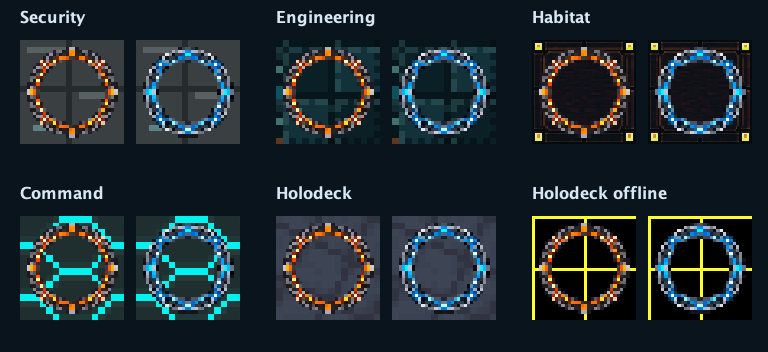
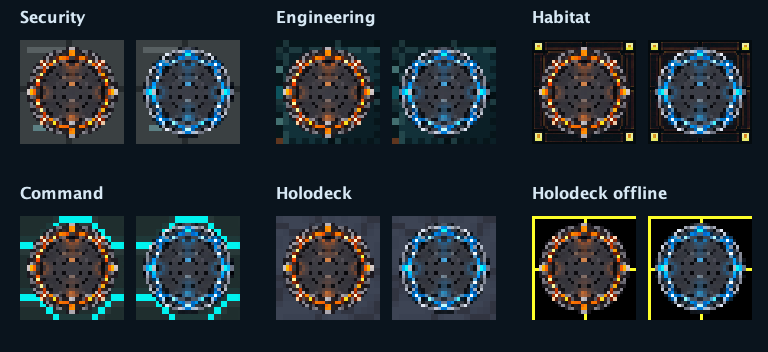
Fill teleport-pad centres and archive unused assets

diff --git a/scripts/InstallTeleportPadArtwork.java b/scripts/InstallTeleportPadArtwork.java
@@ -5,8 +5,9 @@ import java.awt.Graphics2D;
 import java.awt.RenderingHints;
 import java.awt.image.BufferedImage;
 import java.nio.file.Path;
+import java.util.ArrayDeque;
 
-/** Packs transparent circular overlays and previews them on the deck floor textures. */
+/** Fills the existing pad centres, packs the overlays and previews them on deck floors. */
 public class InstallTeleportPadArtwork {
     public static void main(String[] args) throws Exception {
         Path artwork = Path.of(args[0]);
@@ -14,8 +15,16 @@ public class InstallTeleportPadArtwork {
         BufferedImage strip = new BufferedImage(128, 64, BufferedImage.TYPE_INT_ARGB);
         BufferedImage[] icons = new BufferedImage[2];
         String[] names = {"orange", "blue"};
+        BufferedImage filledSource = ImageIO.read(artwork.resolve("filled-centres-source.png").toFile());
+        if (filledSource == null || filledSource.getWidth() % 2 != 0) {
+            throw new IllegalArgumentException("Expected two equal frames in the filled pad source");
+        }
+        int filledFrameWidth = filledSource.getWidth() / 2;
         for (int i = 0; i < names.length; i++) {
             icons[i] = fit(ImageIO.read(artwork.resolve(names[i] + "-source.png").toFile()));
+            BufferedImage filled = fit(filledSource.getSubimage(i * filledFrameWidth, 0,
+                    filledFrameWidth, filledSource.getHeight()));
+            fillCentre(icons[i], filled);
             for (int y = 0; y < 64; y++) {
                 for (int x = 0; x < 64; x++) strip.setRGB(i * 64 + x, y, icons[i].getRGB(x, y));
             }
@@ -48,6 +57,31 @@ public class InstallTeleportPadArtwork {
         }
         g.dispose();
         ImageIO.write(preview, "png", artwork.resolve("deck-preview.png").toFile());
+    }
+
+    /** Fill only the enclosed hole, preserving every existing rim and exterior pixel. */
+    private static void fillCentre(BufferedImage icon, BufferedImage filled) {
+        boolean[] seen = new boolean[64 * 64];
+        ArrayDeque<Integer> queue = new ArrayDeque<>();
+        queue.add(32 * 64 + 32);
+        while (!queue.isEmpty()) {
+            int cell = queue.removeFirst();
+            int x = cell % 64, y = cell / 64;
+            if (seen[cell] || (icon.getRGB(x, y) >>> 24) != 0) continue;
+            seen[cell] = true;
+            if (x == 0 || x == 63 || y == 0 || y == 63) {
+                throw new IllegalArgumentException("Pad centre is not enclosed by its rim");
+            }
+            int pixel = filled.getRGB(x, y);
+            if ((pixel >>> 24) < 128) {
+                throw new IllegalArgumentException("Filled pad source has a transparent centre");
+            }
+            icon.setRGB(x, y, pixel | 0xFF000000);
+            queue.add(cell - 1);
+            queue.add(cell + 1);
+            queue.add(cell - 64);
+            queue.add(cell + 64);
+        }
     }
 
     private static BufferedImage fit(BufferedImage source) {

diff --git a/core/src/main/java/com/wafitz/pixelspacebase/Assets.java b/core/src/main/java/com/wafitz/pixelspacebase/Assets.java
@@ -41,9 +41,6 @@ public class Assets {
     public static final String ICONS = "icons.png";
     public static final String STATUS = "status_pane.png";
     public static final String MENU = "menu_button.png";
-    public static final String HP_BAR = "hp_bar.png";
-    public static final String SHLD_BAR = "shield_bar.png";
-    public static final String XP_BAR = "exp_bar.png";
     public static final String TOOLBAR = "toolbar.png";
     public static final String SHADOW = "shadow.png";
     public static final String BOSSHP = "boss_hp.png";
@@ -145,7 +142,6 @@ public class Assets {
     public static final String WEAK_FLOOR = "custom_tiles/weak_floor.png";
     public static final String SECURITY_QUEST = "custom_tiles/security_quests.png";
     public static final String SECURITY_EXIT = "custom_tiles/security_exit.png";
-    public static final String HOLODECK_RETAINER_TILES = "custom_tiles/holodeck_halls.png";
     public static final String HOLODECK_GRID = "custom_tiles/holodeck_grid.png";
     public static final String ALIEN_PLANET_TILES = "custom_tiles/alien_planet_tiles.png";
     public static final String TILES_SECURITY_ARENA = "tiles_security_arena.png";

diff --git a/core/src/main/java/com/wafitz/pixelspacebase/SpacebaseTilemap.java b/core/src/main/java/com/wafitz/pixelspacebase/SpacebaseTilemap.java
@@ -221,7 +221,7 @@ public class SpacebaseTilemap extends Tilemap {
     }
 
     private int getTileVisual(int pos, int tile) {
-        // Pad graphics are transparent overlays; use this deck's own floor below them.
+        // Keep this deck's floor visible around the pads' transparent outer corners.
         if (TeleporterPads.isPad(SpacebaseRun.level, tile)) tile = Terrain.EMPTY;
         if (SpacebaseRun.level instanceof com.wafitz.pixelspacebase.levels.PixelDungeonLevel) {
             return ((com.wafitz.pixelspacebase.levels.PixelDungeonLevel) SpacebaseRun.level).tileVisual(pos, tile);

diff --git a/core/src/main/java/com/wafitz/pixelspacebase/ui/TeleporterPads.java b/core/src/main/java/com/wafitz/pixelspacebase/ui/TeleporterPads.java
@@ -15,7 +15,7 @@ import java.util.HashMap;
 import java.util.Iterator;
 import java.util.Map;
 
-/** Shared transparent pad overlays; terrain and saved floor connections stay intact. */
+/** Shared pads with filled centres and transparent outer corners; saved connections stay intact. */
 public class TeleporterPads extends Group {
     public static final int ORANGE = 0xFF9D36;
     public static final int BLUE = 0x38BEFF;

diff --git a/art/archive/v1.0.6-unused-assets/README.md b/art/archive/v1.0.6-unused-assets/README.md
@@ -1,0 +1,46 @@
+# Assets archived during v1.0.6
+
+This directory preserves 18 unused files moved out of `core/src/main/assets/` on 21 October 2026. The files total 39,698,787 bytes (37.86 MiB) before APK compression. Their relative paths are retained, so each file can be restored to the original asset directory without renaming it. This folder is outside the Android asset source sets and is not packaged in the APK.
+
+[manifest.json](manifest.json) records the original and archived paths, byte sizes, SHA-256 checksums and reason for every move. File contents were preserved exactly.
+
+## Archived files
+
+| Former asset path | Evidence for archiving |
+| --- | --- |
+| `custom_tiles/holodeck_halls.png` | Unused former Holodeck custom sheet; Assets.HOLODECK_RETAINER_TILES has no caller. |
+| `exp_bar.png` | Superseded HUD strip; StatusPane draws the current experience bar directly and Assets.XP_BAR has no caller. |
+| `hp_bar.png` | Superseded HUD strip; StatusPane draws the current HP bar directly and Assets.HP_BAR has no caller. |
+| `items_old.png` | Unreferenced backup of the item atlas; runtime uses items.png. |
+| `shield_bar.png` | Superseded HUD strip; no caller of Assets.SHLD_BAR. |
+| `soundtrack/air_supply.mp4` | Not selected by Assets or any runtime/music loader; no artwork-tool reference. |
+| `soundtrack/commons_in_ruin.mp4` | Not selected by Assets or any runtime/music loader; no artwork-tool reference. |
+| `soundtrack/game.ogg` | Not selected by Assets or any runtime/music loader; no artwork-tool reference. |
+| `soundtrack/habitation_deck_echoes.mp4` | Not selected by Assets or any runtime/music loader; no artwork-tool reference. |
+| `soundtrack/iron_gate_slam.mp4` | Not selected by Assets or any runtime/music loader; no artwork-tool reference. |
+| `soundtrack/sector_9_breach.mp4` | Not selected by Assets or any runtime/music loader; no artwork-tool reference. |
+| `soundtrack/sleeping_sample.mp4` | Not selected by Assets or any runtime/music loader; no artwork-tool reference. |
+| `soundtrack/surface.ogg` | Not selected by Assets or any runtime/music loader; no artwork-tool reference. |
+| `soundtrack/terminal_override.mp4` | Not selected by Assets or any runtime/music loader; no artwork-tool reference. |
+| `soundtrack/theme.ogg` | Not selected by Assets or any runtime/music loader; no artwork-tool reference. |
+| `terrain_features_old.png` | Unreferenced backup of the terrain feature atlas; runtime uses terrain_features.png. |
+| `tiles_decorators.png` | Unreferenced decorator sheet; no runtime or artwork-tool filename reference. |
+| `xeno_queen_festive.png` | Unreferenced alternate queen sheet; current queen sprite uses queen_xeno.png. |
+
+## Audit scope
+
+The audit checked the game and engine Java sources, `Assets` constant callers, the texture/bitmap/font/audio loaders, Gradle asset source sets, tests, artwork installers and tracked documentation. Texture loading uses explicit asset names; the Pixel Dungeon rescue also builds names from `Assets.PD_ART`, so its entire active directory is retained. The four unused HUD/custom-tile constants were removed from `Assets.java` alongside their files.
+
+Standalone icons and animation strips that are still used by artwork installers or tests remain in their current locations. This includes the detector icons, hard-light emitter, Hoverpod and Hunter source copies, Loader icons/SVG, boarding-weapon icons and plasmid injector strip. They are authoring/test inputs or outputs rather than obsolete artwork. The detector bio icon also remains available for the unresolved assignment in `PLAN.md`.
+
+`asset_pixel_scale.txt` is retained because `UpscalePngAssets.java` uses it to prevent a second destructive upscale of the existing sheets. No saved class names, live atlas pixels or runtime asset paths were changed.
+
+## Restoring a file
+
+Copy a file back to `core/src/main/assets/` using its relative path in this archive. If the file previously had an `Assets` constant, restore that declaration and add its intended runtime caller as part of reactivating it. Keep the archived original available for reference.
+
+## Validation
+
+`./gradlew :core:assembleDebug :core:assembleRelease --offline` passed. Both APKs contain all 200 retained asset files byte for byte as before, exclude the 18 archived files, and do not package this archive. All 178 remaining `Assets` constants resolve to existing files or directories. Archived-file SHA-256 checks passed.
+
+The unsigned release APK decreased from 146,626,503 to 106,925,130 bytes, a reduction of 37.86 MiB (27.08%). Gameplay was not repeated for this change; these are source, archive-integrity and packaged-asset checks.

diff --git a/PLAN.md b/PLAN.md
@@ -22,7 +22,8 @@ Work through release stability and reported bugs first, then equipment, companio
 
 ## Rooms and Artwork
 
-- [ ] **Fill the interiors of entrance and exit pads.** Retain the orange/blue travel directions, locked-pad indication and transition effects; review the result against each deck's floor artwork.
+- [x] **Archive unused packaged assets.** Moved 18 unreferenced soundtrack, HUD, terrain and alternate-sprite files into [the asset archive](art/archive/v1.0.6-unused-assets/README.md), preserving their bytes, original paths and SHA-256 checksums. Removed four unused `Assets` constants. Retained live assets, Pixel Dungeon rescue art and artwork-tool/test files. Debug and minified release builds passed; both APKs retain the same 200 asset files byte for byte and exclude the archive. The release APK is 37.86 MiB smaller (27.08%). Gameplay checks were not repeated for this change.
+- [x] **Fill the interiors of entrance and exit pads.** Added opaque metal centres to both frames of `teleport_pads.png`, preserving every original rim and exterior pixel, the orange/blue directions and transparent outer margins. Updated the artwork installer, generated source and six-background preview in [the pad artwork folder](art/teleport-pads/README.md). Pixel/grid checks and debug/minified release builds passed. Travel, locked-pad dimming, pulses and transition effects retain their existing behaviour; in-game visual confirmation remains under verification below.
 - [ ] **Give the inactive Holodeck distinguishing walls.** Make its powered-down walls readable alongside the grid floor, including the arena doorway and entrance surround. Preserve the independent inactive treatment of the unstable holo-projector quest room.
 - [ ] **Add an optional room reachable only by jetpack on some levels.** Keep the main route, mandatory quest items and level progression reachable without it. Check flight access, landing and return before choosing generation frequency.
 - [ ] **Map sprite directions and animation frames.** Document standing, walking and fighting directions for the relevant sprite sheets, including frame sizes and code mappings, to guide further art changes and avoid reversed or misaligned poses.
@@ -33,6 +34,7 @@ Use [the staged rescue design](docs/Y_RESCUE_PLAN.md) for the existing journey a
 
 - [ ] **Have Y punish being zapped once per run.** Send the hero to the blackout/dark-maze level with the remark, "This will teach you a lesson". Save the one-time flag and preserve the return journey so reloads cannot repeat the punishment or lose the origin.
 - [ ] **Add a 1% chance that Y refuses a later doorless-room rescue.** Enable this only after Y has already performed at least one rescue, preserving the first-rescue guarantee. He appears and tells the hero he will not rescue them; the hero remains stranded unless they have another escape, such as teleportation. Save the outcome so reloading cannot reroll the refusal. Keep this chamber event separate from the existing rescue-destination probabilities.
+- [ ] Do a test of all Y scenarios - alter logic to cycle through them.
 
 ## Decisions and Features to Scope
 
@@ -60,7 +62,7 @@ These changes are implemented in the v1.0.5 baseline but explicitly still awaite
 - [ ] Confirm boss-deck falls land in the sealed doorless chamber and Y arrives after 20 hero actions. Include restored phase-swapped boss maps, an on-demand final-boss chamber and deliberate boss detours entering through the normal arena approach.
 - [ ] Complete the [staged Y rescue acceptance checks](docs/Y_RESCUE_PLAN.md): first-rescue guarantee and origin recovery; alien-planet visits and purchases; boss victory/defeat/reset; maze visibility and Hunter mapping; and the 1% Pixel Dungeon visit. Include save/reload, cargo and cat transfers.
 - [ ] Confirm new runs reject unrelated deck files and produce normal loot from level 6 onward. Check legacy unmarked-deck handling, skipped unfinished bosses approached from below and current-run victory requirements for completed legacy boss decks.
-- [ ] Confirm teleport-pad departure/arrival effects, locked departures, colours and travel/save behaviour across deck types, with Maintenance ladders retained. Review pad interiors again after the v1.0.6 artwork change.
+- [ ] Confirm teleport-pad departure/arrival effects, locked departures, colours and travel/save behaviour across deck types, with Maintenance ladders retained. Confirm the implemented v1.0.6 filled centres in game, including dimmed locked pads and both Holodeck phases.
 - [ ] Confirm the escape-pod ending text, cat variant, launch and stay buttons resolve correctly.
 
 ### Rooms and Visuals

diff --git a/art/teleport-pads/PROMPTS.md b/art/teleport-pads/PROMPTS.md
@@ -1,5 +1,9 @@
 # Exact built-in image-generation prompts
 
+The orange and blue prompts below produced the original open rings, retained as
+the rim sources. The v1.0.6 edit prompt at the end produced the filled-centre
+reference; the installer copies only its interior pixels into the original rings.
+
 ## orange
 
 Use case: stylized-concept. Asset type: one 64 by 64 pixel floor-tile overlay for the sci-fi roguelike Pixel Spacebase. A SINGLE CIRCULAR TELEPORT PAD seen exactly from above, perfectly round, no perspective or ellipse. Slim concentric charcoal/silver annular metal rings with 8 small rectangular luminous segments symmetrically spaced around the ring and a slender inner glowing circle. Clean intentional chunky pixel art, designed as 32 by 32 logical pixels scaled 2x. The outside AND THE LARGE EMPTY CIRCULAR CENTER MUST BE GENUINELY TRANSPARENT so the existing floor tile shows through; absolutely no solid disc, filled center, background, floor, shadow, platform base, arrow, chevron, directional motif, text, labels or watermark. Fill almost the full tile with a circular ring while retaining a 4 pixel transparent outside margin at 64px. The center is open transparent, occupying at least half the diameter. Bright small lights embedded into metal rim. Do not put anything inside the empty center. Display one ring centered on a square canvas, genuinely transparent background. Colour: warm vivid ORANGE-amber lights for the PREVIOUS-FLOOR teleport pad.
@@ -7,3 +11,12 @@ Use case: stylized-concept. Asset type: one 64 by 64 pixel floor-tile overlay fo
 ## blue
 
 Use case: stylized-concept. Asset type: one 64 by 64 pixel floor-tile overlay for the sci-fi roguelike Pixel Spacebase. A SINGLE CIRCULAR TELEPORT PAD seen exactly from above, perfectly round, no perspective or ellipse. Slim concentric charcoal/silver annular metal rings with 8 small rectangular luminous segments symmetrically spaced around the ring and a slender inner glowing circle. Clean intentional chunky pixel art, designed as 32 by 32 logical pixels scaled 2x. The outside AND THE LARGE EMPTY CIRCULAR CENTER MUST BE GENUINELY TRANSPARENT so the existing floor tile shows through; absolutely no solid disc, filled center, background, floor, shadow, platform base, arrow, chevron, directional motif, text, labels or watermark. Fill almost the full tile with a circular ring while retaining a 4 pixel transparent outside margin at 64px. The center is open transparent, occupying at least half the diameter. Bright small lights embedded into metal rim. Do not put anything inside the empty center. Display one ring centered on a square canvas, genuinely transparent background. Colour: bright CYAN-BLUE lights for the NEXT-FLOOR teleport pad.
+
+## v1.0.6 filled centres
+
+Mode: built-in imagegen edit, with `transparent_background: true`.
+Edit target: the previous unfilled `core/src/main/assets/teleport_pads.png` strip.
+Supporting references: `orange-source.png` and `blue-source.png`.
+Saved result: `filled-centres-source.png`.
+
+Use case: precise-object-edit. The FIRST reference is the edit target: a two-frame horizontal sprite sheet showing the existing orange previous-deck teleport pad on the LEFT and cyan-blue next-deck teleport pad on the RIGHT. The other two references show the same existing metal rims at higher resolution, for detail/style only. Fill the empty circular interior of BOTH pads with a fully opaque, low-contrast dark gunmetal standing platform. Give the centre restrained concentric metal panel detail and a subtle warm orange or cool blue reflection matching its rim; it must read as a solid flat sci-fi metal disc, with no hole and no floor visible through its centre. Preserve the existing silver/charcoal metal rims, eight luminous rim segments, orange/blue hues, perfectly top-down circular silhouettes, pixel-art treatment, equal sizes and left/right order. Keep the outer area genuinely transparent. Keep the composition as exactly TWO pads side by side in equal square frames in a 2:1 horizontal strip, with transparent margins and no overlap. No extra pads, perspective, floor background, arrows, symbols, text, labels, figures or shadows outside the pads. The eventual game sheet is 128 by 64 pixels, so keep the centre design simple, legible and restrained at small pixel-art size.

diff --git a/art/teleport-pads/README.md b/art/teleport-pads/README.md
@@ -1,21 +1,25 @@
 # Shared teleport pads
 
-The built-in image-generation tool produced two circular, transparent floor
-overlays: orange for the previous deck and blue for the next deck. Neither uses
-arrows or chevrons. The open centre and outside margin preserve each environment's
-floor texture.
+The pads use orange for the previous deck and blue for the next deck. Both now
+have opaque dark-metal centres with subtle matching colour reflections and
+concentric panel detail. Their original illuminated rims are preserved exactly;
+the outside margin remains transparent so the deck floor shows around each pad.
+Neither uses arrows or chevrons.
 
 ## Artwork
 
-- Generated originals: `orange-source.png`, `blue-source.png`.
-- Installed 64×64 overlays: `orange-pad.png`, `blue-pad.png`.
+- Original generated rings: `orange-source.png`, `blue-source.png`.
+- Filled-centre reference from built-in imagegen: `filled-centres-source.png`.
+- Installed 64×64 pads: `orange-pad.png`, `blue-pad.png`.
 - Live two-frame strip: `core/src/main/assets/teleport_pads.png` (128×64).
 - Exact prompts: `PROMPTS.md`.
 - Artwork preview on six deck backgrounds: `deck-preview.png`.
 
 Each 64×64 frame has a 56px footprint, retaining crisp detail on a 32×32 artwork
-grid. The runtime retains the existing 16×16 logical tile size. Existing atlases
-are unchanged.
+grid. The runtime retains the existing 16×16 logical tile size. The installer
+fits the generated reference, then fills only the original ring's enclosed
+transparent centre. Every original rim and exterior pixel is retained, rather
+than replacing the rings with a newly generated design. Deck atlases are unchanged.
 
 Install and regenerate the preview from the repository root:
 
@@ -27,9 +31,9 @@ java -Djava.awt.headless=true scripts/InstallTeleportPadArtwork.java art/telepor
 
 `TeleporterPads` applies only to entrance, exit, locked-exit and unlocked-exit
 terrain. Maintenance and its boss deck keep their ladders. Floors are selected
-through the existing tile mapper before the rings are drawn, including Habitat
-arrival-room flooring and both Holodeck phases. The Holodeck arrival overlay also
-uses its floor beneath the new pads. Boss pads that appear, disappear or unlock
+through the existing tile mapper before the pads are drawn, including Habitat
+arrival-room flooring and both Holodeck phases. Their flooring remains visible
+outside the circular pad. Boss pads that appear, disappear or unlock
 are refreshed with map changes. Locked pads are dimmed; their movement and keycard
 rules remain intact.
 
@@ -51,7 +55,14 @@ changed, so the new treatment also applies to existing saves.
 
 ## Evidence
 
-The installed artwork preview was inspected, and a debug APK build completed.
+The filled pads were inspected on Security, Engineering, Habitat, Command and both
+Holodeck floor textures. Pixel checks confirmed that all 1,216 orange and 1,096
+blue centre pixels are now opaque, while every original rim and exterior pixel
+is unchanged. Both frames retain binary alpha and the 2× artwork grid, and the
+live strip matches the fitted pads exactly. Debug and minified release APK builds
+passed with the filled strip packaged.
+
 Phone playtesting of pad clicks, boss unlocks, both travel directions and the
-Maintenance boundary remains pending. The artwork preview is not a gameplay
-screenshot.
+Maintenance boundary remains pending, including visual confirmation of the new
+centres. The artwork preview is not a gameplay screenshot. The fill change does
+not alter travel, lock/dimming, pulse, beam or loading-effect code.

diff --git a/README.md b/README.md
@@ -29,6 +29,8 @@ Here is a small selection of current in-game art: the orbital backdrop, the powe
   </tr>
 </table>
 
+Unused packaged assets are preserved in [the v1.0.6 asset archive](art/archive/v1.0.6-unused-assets/README.md), with original paths, checksums and audit notes. The archive is kept outside the APK's asset folders.
+
 ## What's Different?
 
 The aim is to convert Pixel Dungeon into a fully fledged Spacebase Exploration/Escape RPG. The project is playable as an alpha, but expect unfinished content, rough edges, and ongoing balance changes.
